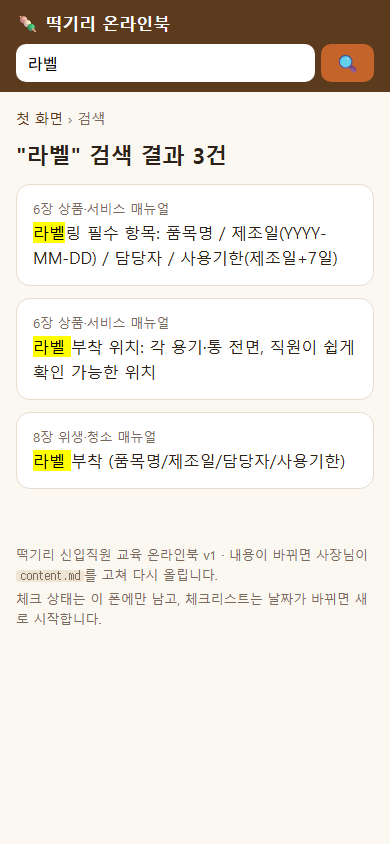
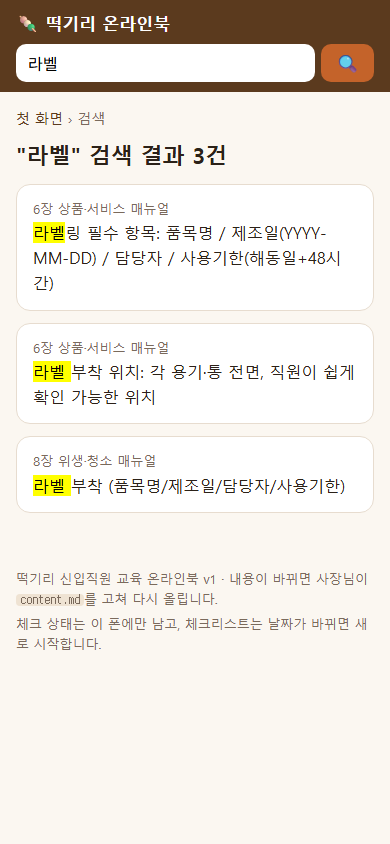
6장 라벨링 사용기한을 해동일+48시간으로 수정 (떡기리)

diff --git a/02_실전캠프_Day2_실습제출/2조_김은정_떡기리/v1/프로젝트/content.js b/02_실전캠프_Day2_실습제출/2조_김은정_떡기리/v1/프로젝트/content.js
@@ -116,7 +116,7 @@ window.BOOK_MD = `# 떡기리 신입직원 교육 온라인북
 
 ## 6장. 상품·서비스 매뉴얼
 
-- [ ] 라벨링 필수 항목: **품목명 / 제조일(YYYY-MM-DD) / 담당자 / 사용기한(제조일+7일)**
+- [ ] 라벨링 필수 항목: **품목명 / 제조일(YYYY-MM-DD) / 담당자 / 사용기한(해동일+48시간)**
 - [ ] 라벨 부착 위치: 각 용기·통 전면, 직원이 쉽게 확인 가능한 위치
 - [ ] 원칙: 선입선출(FIFO) 철저히 준수
 - [ ] 라떼·음료 제조 시 정해진 레시피 준수, 임의 변경 금지

diff --git a/02_실전캠프_Day2_실습제출/2조_김은정_떡기리/v1/프로젝트/content.md b/02_실전캠프_Day2_실습제출/2조_김은정_떡기리/v1/프로젝트/content.md
@@ -115,7 +115,7 @@
 
 ## 6장. 상품·서비스 매뉴얼
 
-- [ ] 라벨링 필수 항목: **품목명 / 제조일(YYYY-MM-DD) / 담당자 / 사용기한(제조일+7일)**
+- [ ] 라벨링 필수 항목: **품목명 / 제조일(YYYY-MM-DD) / 담당자 / 사용기한(해동일+48시간)**
 - [ ] 라벨 부착 위치: 각 용기·통 전면, 직원이 쉽게 확인 가능한 위치
 - [ ] 원칙: 선입선출(FIFO) 철저히 준수
 - [ ] 라떼·음료 제조 시 정해진 레시피 준수, 임의 변경 금지
